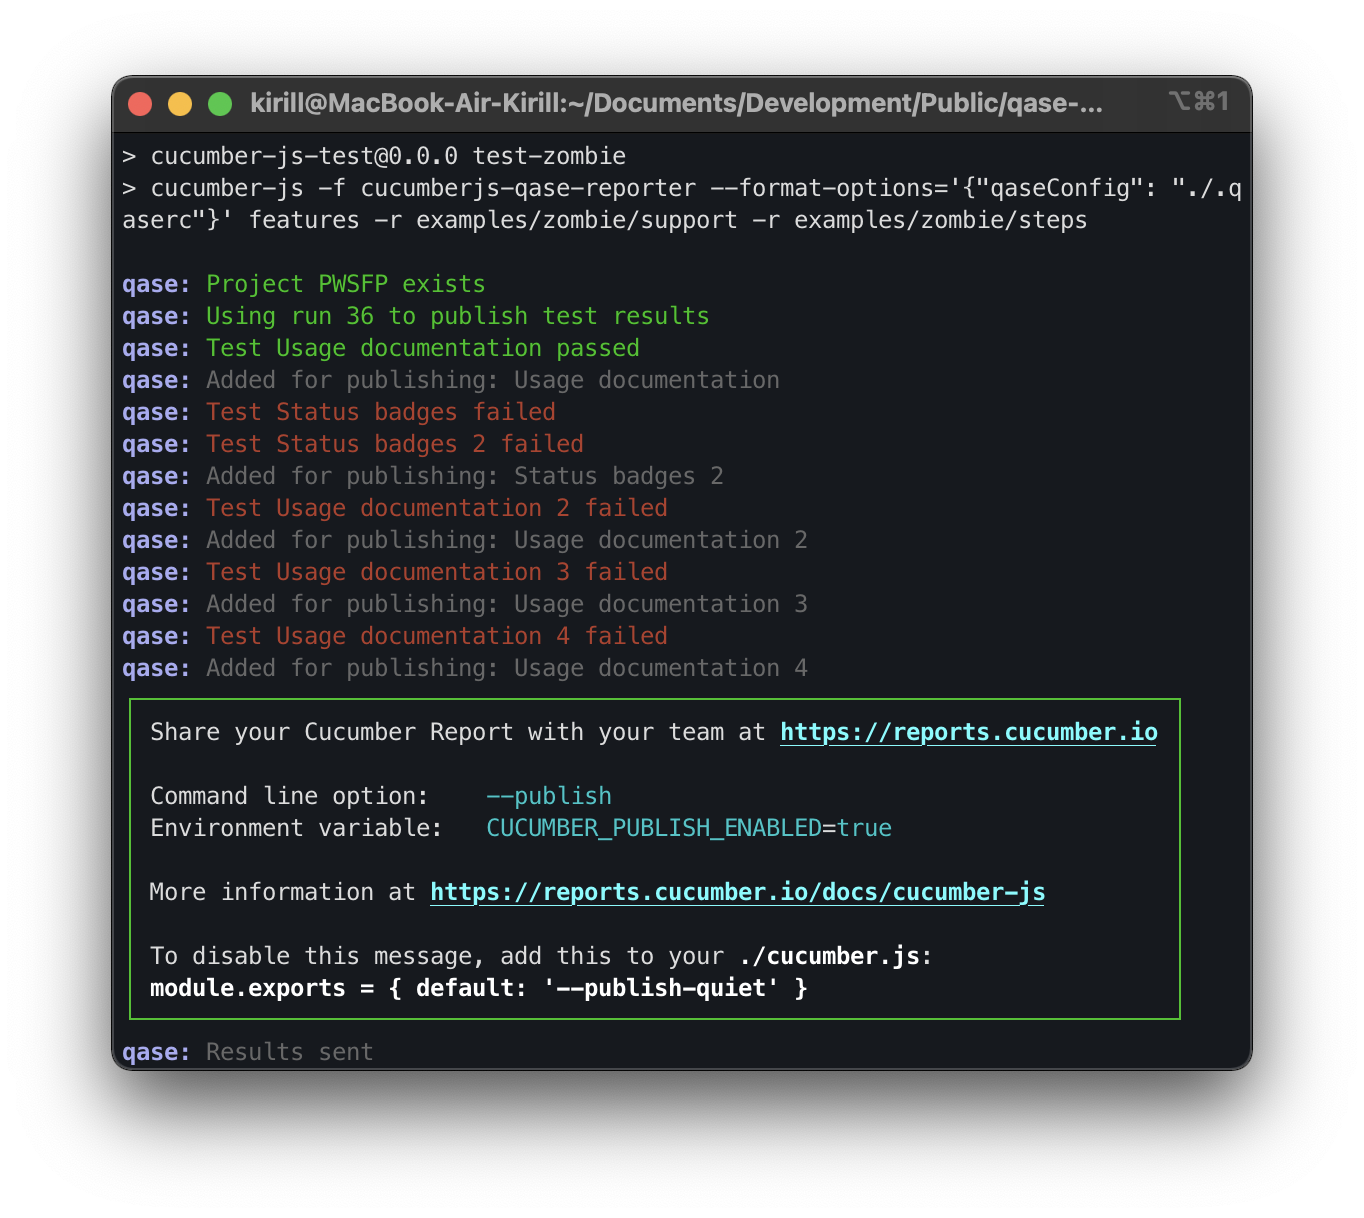
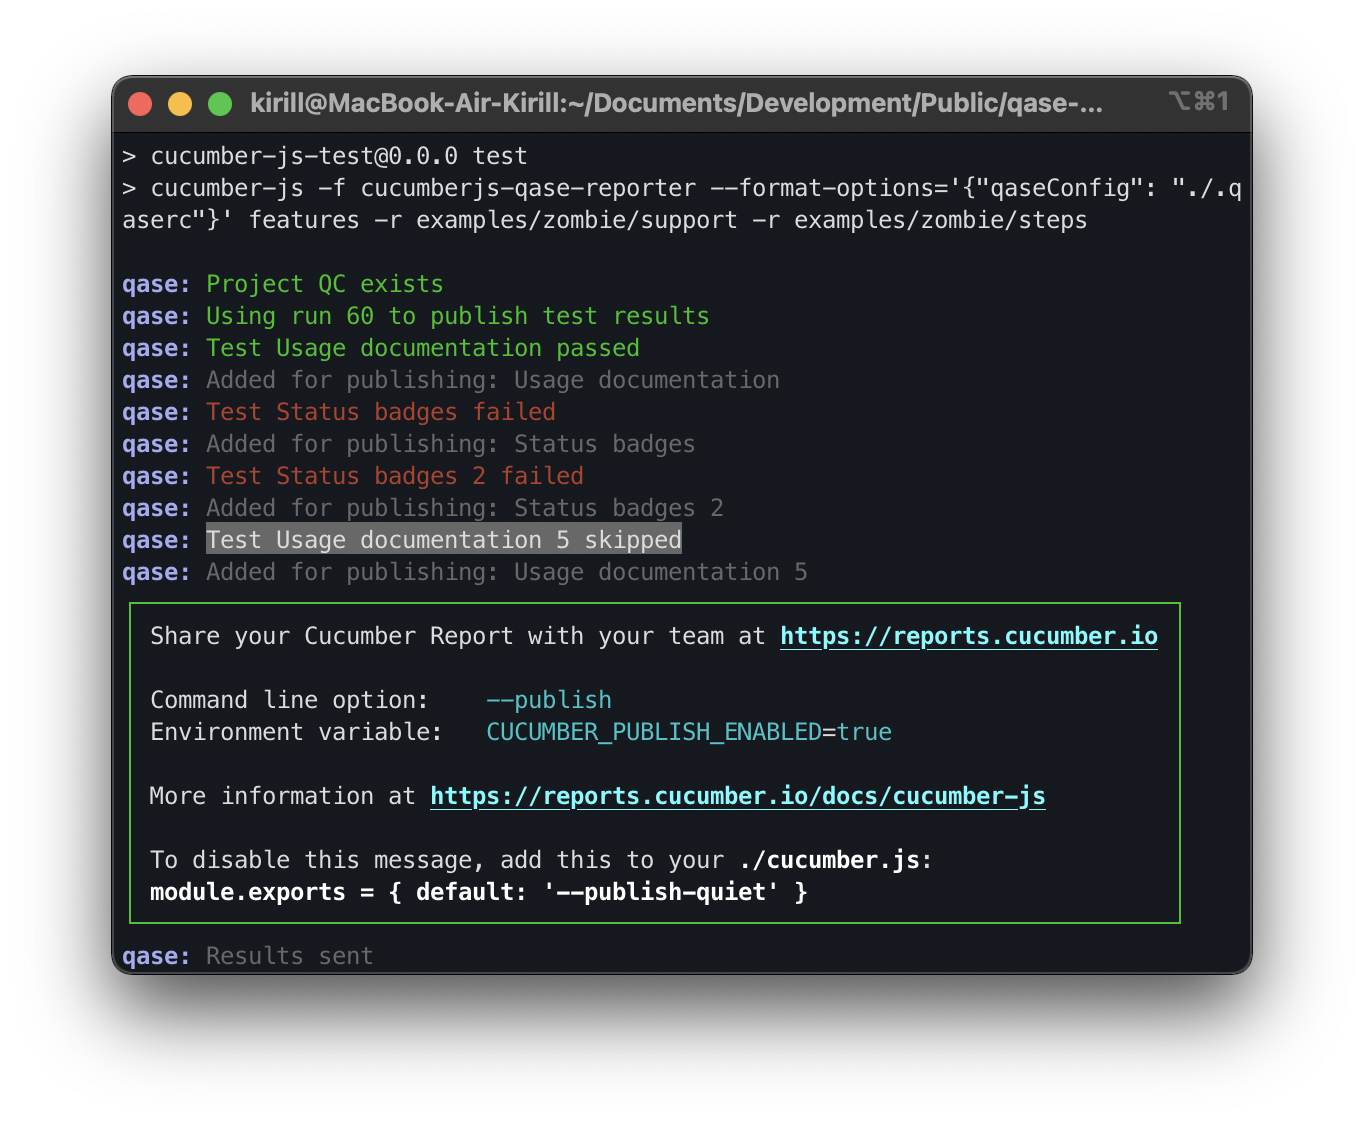
[qase-cucumber] Improving documentation (#198)

Changed region(s): [[0.0616, 0.0624, 0.9238, 0.9046], [0.8622, 0.156, 0.9238, 0.1872]]

diff --git a/qase-cucumberjs/README.md b/qase-cucumberjs/README.md
@@ -46,9 +46,12 @@ Allow submitting results in bulk
 ```
 
 To run tests and create a test run, execute the command (for example from folder examples):
-
+```bash
+cucumber-js -f cucumberjs-qase-reporter --format-options='{\"qaseConfig\": \"./.qaserc\"}' features -r examples/zombie/support -r examples/zombie/steps
 ```
-npm run test-zombie
+or
+```bash
+npm test
 ```
 <p align="center">
   <img width="65%" src="./examples/screenshots/screenshot.png">
